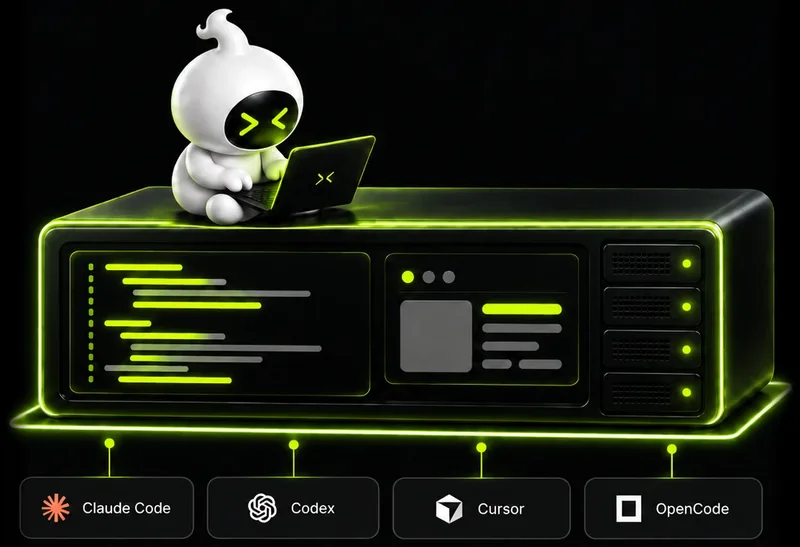
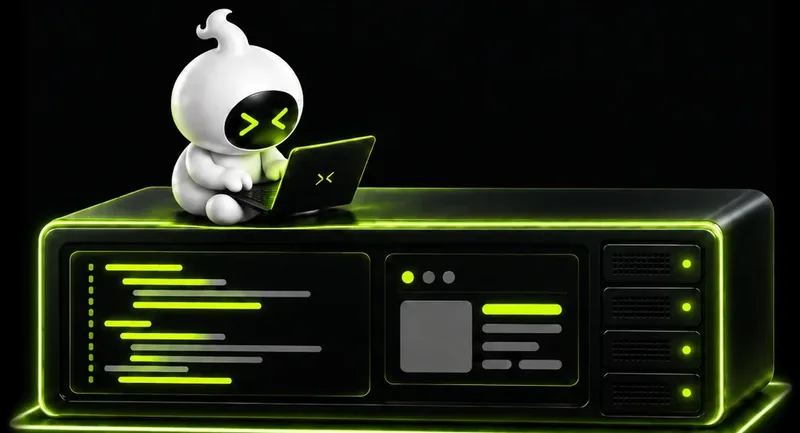
Homepage: crop the old agent chips (incl. Cursor) from the hero art
Claude-Session: https://claude.ai/code/session_01Pq9KzAADqaMjRU8G7iuEHa

diff --git a/specs/STATUS.md b/specs/STATUS.md
@@ -60,7 +60,6 @@ Path A Deploy button (owner clicks it 2026-10-07), finish 06 port + mobile reche
 - **Mobile copy/select**: a "Select" key opens the scrollback as native selectable text (xterm's own touch selection is unreliable on phones).
 - **Terminal latency**: the status line reads 33 ms from the iOS Simulator; the 146–174 ms seen earlier came from the headless test browser.
 - **Phones without a synced passkey** sign in through Settings → Add a phone (QR link, single use, 10 min).
-- **Hero art** on the homepage still shows a small "Cursor" chip from the old artwork.
 
 ## Open decisions
 
